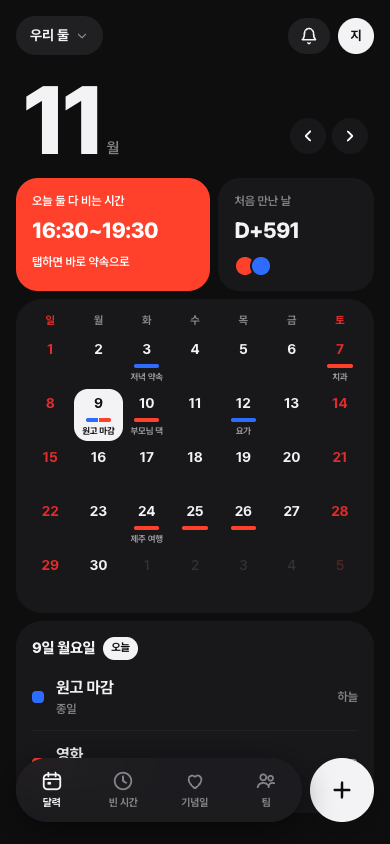
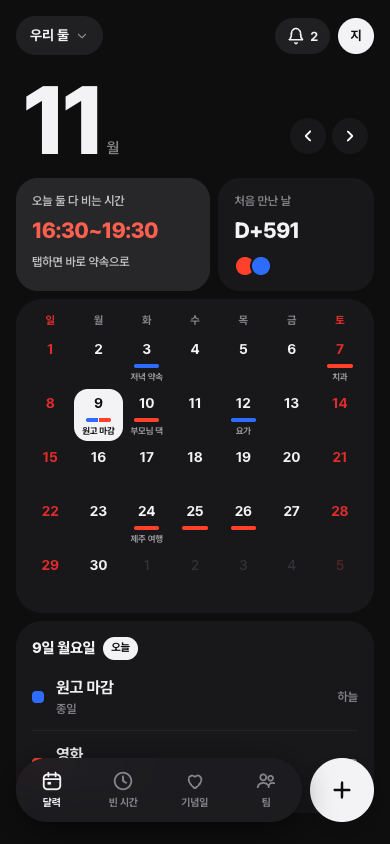
fix: 강조 타일 먹색+코랄, 하단 탭 여백 (#24)
- 오늘 모두 비는 시간 타일: 빨강 면 → 먹색(#1C1C1E, 다크 #2C2C30) + 시간 숫자만 코랄 #FF6B57, 라벨은 흰색 70%
- 새 소식 새 항목 강조도 포인트 연한 면 대신 바탕색으로 차분하게 (배지, 점은 유지)
- 떠 있는 탭이 있는 화면 공통 본문 하단 여백을 탭 높이 + 띄움 + safe-area 로 늘려 마지막 일정이 가리지 않게
- 디자인토큰.md, QA 스크린샷(모바일 라이트/다크 달력, PC 라이트 달력) 갱신

Changed region(s): [[0.0308, 0.1848, 0.5538, 0.3697], [0.7385, 0.0308, 0.8308, 0.0616]]

diff --git a/apps/web/src/screens/CalendarScreen.tsx b/apps/web/src/screens/CalendarScreen.tsx
@@ -466,11 +466,11 @@ function FreeTile({
   groupId: string;
   onRetry?: () => void;
 }) {
-  const cls = "block rounded-lg bg-brand px-4 py-3.5 text-left text-white hover:brightness-105 lg:px-[18px] lg:py-4";
+  const cls = "block rounded-lg bg-[var(--hl-tile)] px-4 py-3.5 text-left text-white hover:brightness-110 lg:px-[18px] lg:py-4";
   if (onRetry && slot === undefined) {
     return (
       <button type="button" onClick={onRetry} className={`${cls} w-full`}>
-        <small className="block text-[12px] font-semibold">{label}</small>
+        <small className="block text-[12px] font-semibold text-white/70">{label}</small>
         <b className="mt-1 block text-[15px] font-bold leading-snug">계산하지 못했어요. 눌러서 다시 시도</b>
       </button>
     );
@@ -478,7 +478,7 @@ function FreeTile({
   if (slot === undefined) {
     return (
       <div className={cls} aria-busy="true">
-        <small className="block text-[12px] font-semibold">{label}</small>
+        <small className="block text-[12px] font-semibold text-white/70">{label}</small>
         <span className="mt-2 block h-6 w-28 animate-pulse rounded-[7px] bg-white/30" />
       </div>
     );
@@ -486,19 +486,19 @@ function FreeTile({
   if (slot === null) {
     return (
       <Link href={`/g/${groupId}/free`} className={cls}>
-        <small className="block text-[12px] font-semibold">{label}</small>
+        <small className="block text-[12px] font-semibold text-white/70">{label}</small>
         <b className="mt-1 block text-[15px] font-bold leading-snug tracking-[-0.02em]">오늘은 모두 비는 시간이 없어요</b>
-        <small className="mt-1.5 block text-[12px] font-semibold">다른 날 찾아보기</small>
+        <small className="mt-1.5 block text-[12px] font-semibold text-white/70">다른 날 찾아보기</small>
       </Link>
     );
   }
   return (
     <Link href={newEventHref(groupId, slot.startsAt, slot.endsAt)} className={cls}>
-      <small className="block text-[12px] font-semibold">{label}</small>
-      <b className="mt-1 block text-[22px] font-extrabold tracking-[-0.04em]">
+      <small className="block text-[12px] font-semibold text-white/70">{label}</small>
+      <b className="mt-1 block text-[22px] font-extrabold tracking-[-0.04em] text-[var(--hl-time)]">
         {timeOf(slot.startsAt)}~{timeOf(slot.endsAt)}
       </b>
-      <small className="mt-1.5 block text-[12px] font-semibold">
+      <small className="mt-1.5 block text-[12px] font-semibold text-white/70">
         <span className="lg:hidden">탭하면</span>
         <span className="hidden lg:inline">클릭하면</span> 바로 약속으로
       </small>

diff --git a/apps/web/src/app/globals.css b/apps/web/src/app/globals.css
@@ -55,6 +55,9 @@
   --line: #ececef;
   --acc: #ff3d1f;
   --acc-soft: #ffece8;
+  /* 오늘 모두 비는 시간 타일: 먹색 면 + 시간만 코랄 (#24 리뷰 C안) */
+  --hl-tile: #1c1c1e;
+  --hl-time: #ff6b57;
   --holiday: #e5322d;
   --holiday-faint: #f2b8b5;
   --m1: #ff3d1f;
@@ -83,6 +86,7 @@
     --line: #26262a;
     --acc: #ff4a2e;
     --acc-soft: #2c1512;
+    --hl-tile: #2c2c30;
     --holiday-faint: #5a2a28;
     --m1: #ff4a2e;
     --m2: #3b74ff;
@@ -106,6 +110,7 @@
   --line: #26262a;
   --acc: #ff4a2e;
   --acc-soft: #2c1512;
+  --hl-tile: #2c2c30;
   --holiday-faint: #5a2a28;
   --m1: #ff4a2e;
   --m2: #3b74ff;

diff --git a/apps/web/src/components/AppShell.tsx b/apps/web/src/components/AppShell.tsx
@@ -249,7 +249,7 @@ export function AppShell({ groupId, children }: { groupId: string; children: Rea
           </header>
 
           <main
-            className={`flex-1 px-4 pb-[calc(110px+env(safe-area-inset-bottom))] lg:px-0 lg:pb-0 ${
+            className={`flex-1 px-4 pb-[calc(64px+22px+32px+env(safe-area-inset-bottom))] lg:px-0 lg:pb-0 ${
               isCalendar ? "" : "lg:mx-auto lg:w-full lg:max-w-[760px] lg:px-8 lg:py-[26px]"
             }`}
           >

diff --git a/apps/web/src/screens/NewsScreen.tsx b/apps/web/src/screens/NewsScreen.tsx
@@ -81,7 +81,7 @@ export function NewsScreen({ groupId }: { groupId: string }) {
                 </>
               );
               const cls = `flex w-full items-start gap-3 rounded-[18px] px-3.5 py-3.5 text-left ${
-                item.isNew ? "bg-brand-soft" : ""
+                item.isNew ? "bg-surface" : ""
               } ${clickable ? "hover:bg-surface" : ""}`;
               return (
                 <li key={item.id}>

diff --git a/docs/설계/디자인토큰.md b/docs/설계/디자인토큰.md
@@ -5,7 +5,7 @@
 - 구현: `apps/web/src/app/globals.css` (`:root` 변수 + Tailwind `@theme inline`)
 
 ## 생각
-연회색 바탕 위 흰 타일(벤토), 큰 월 숫자, 반투명 떠 있는 탭과 알약 버튼. 서비스의 핵심인 "오늘 모두 비는 시간" 을 포인트 색 타일로 첫 화면 맨 위에 둔다. 심볼은 두 장의 날(레드, 블루)이 겹친 자리에 보라.
+연회색 바탕 위 흰 타일(벤토), 큰 월 숫자, 반투명 떠 있는 탭과 알약 버튼. 서비스의 핵심인 "오늘 모두 비는 시간" 을 먹색 타일 + 코랄 시간 숫자로 첫 화면 맨 위에 둔다 (#24 리뷰: 빨강 면은 눈이 아파 C안으로 교체). 심볼은 두 장의 날(레드, 블루)이 겹친 자리에 보라.
 
 ## 색
 | 토큰 (CSS 변수) | Tailwind | 라이트 | 다크 | 용도 |
@@ -17,7 +17,9 @@
 | `--soft` | `soft` | `#555555` | `#A1A1A6` | 본문 보조(소개 문단, 메모) |
 | `--faint` | `faint` | `#C7C7CC` | `#3A3A3F` | 지난/다음 달 날짜 |
 | `--line` | `line` | `#ECECEF` | `#26262A` | 구분선, 스켈레톤 |
-| `--acc` | `brand` | `#FF3D1F` | `#FF4A2E` | 포인트: 오늘 비는 시간 타일, 새 소식 배지, 로그인 "?" |
+| `--acc` | `brand` | `#FF3D1F` | `#FF4A2E` | 포인트: 새 소식 배지, 로그인 "?", 오늘 D-day. 큰 면으로 쓰지 않는다 |
+| `--hl-tile` | - | `#1C1C1E` | `#2C2C30` | 오늘 모두 비는 시간 타일 바탕 (라벨/보조 글자는 흰색 70%) |
+| `--hl-time` | - | `#FF6B57` | `#FF6B57` | 그 타일의 시간 숫자만 코랄 |
 | `--holiday` | `holiday`, `danger` | `#E5322D` | `#E5322D` | 토, 일, 공휴일 날짜와 요일 헤더, 삭제 |
 | `--m1` ~ `--m5` | `member-1`~`5` | `#FF3D1F` `#1F5BFF` `#9A1DFF` `#2ED3A5` `#FF9F1C` | `#FF4A2E` `#3B74FF` `#A855F7` (4, 5 동일) | 멤버 색 순환 |
 | 카카오 | `kakao` | `#FEE500` / 글자 `#191919` | 동일 | 카카오 버튼만. 변경 금지 |
@@ -58,7 +60,7 @@ Pretendard Variable 하나 (`pretendard@v1.3.9` dynamic subset).
 | 바텀 시트 위 모서리 | 30px | `rounded-2xl` |
 | 버튼, 탭, 상단 알약 | 999px | `rounded-full` |
 
-- 모바일 화면 좌우 16px, 타일 사이 8px. 주 버튼 높이 52px, 카카오 58px, 떠 있는 탭 64px + 검정 원형 + 64px
+- 모바일 화면 좌우 16px, 타일 사이 8px. 떠 있는 탭이 있는 화면은 본문 하단 여백 `calc(64px + 22px + 32px + env(safe-area-inset-bottom))` (탭 높이 + 탭 아래 띄움 + 여유) 로 마지막 항목이 탭에 가리지 않게. 주 버튼 높이 52px, 카카오 58px, 떠 있는 탭 64px + 검정 원형 + 64px
 - PC(≥1024px): 사이드바 232px / 가운데 / 우측 패널 320px, 바깥 여백 26px 22px
 - 그림자: 떠 있는 탭과 + 버튼만 (`0 8px 30px`). 나머지 층은 바탕색 차이로
 - 반투명: 상단 알약 `rgba(255,255,255,.7)` blur 12, 탭 `.78` blur 16 (다크 `rgba(32,32,36,.82)`)
